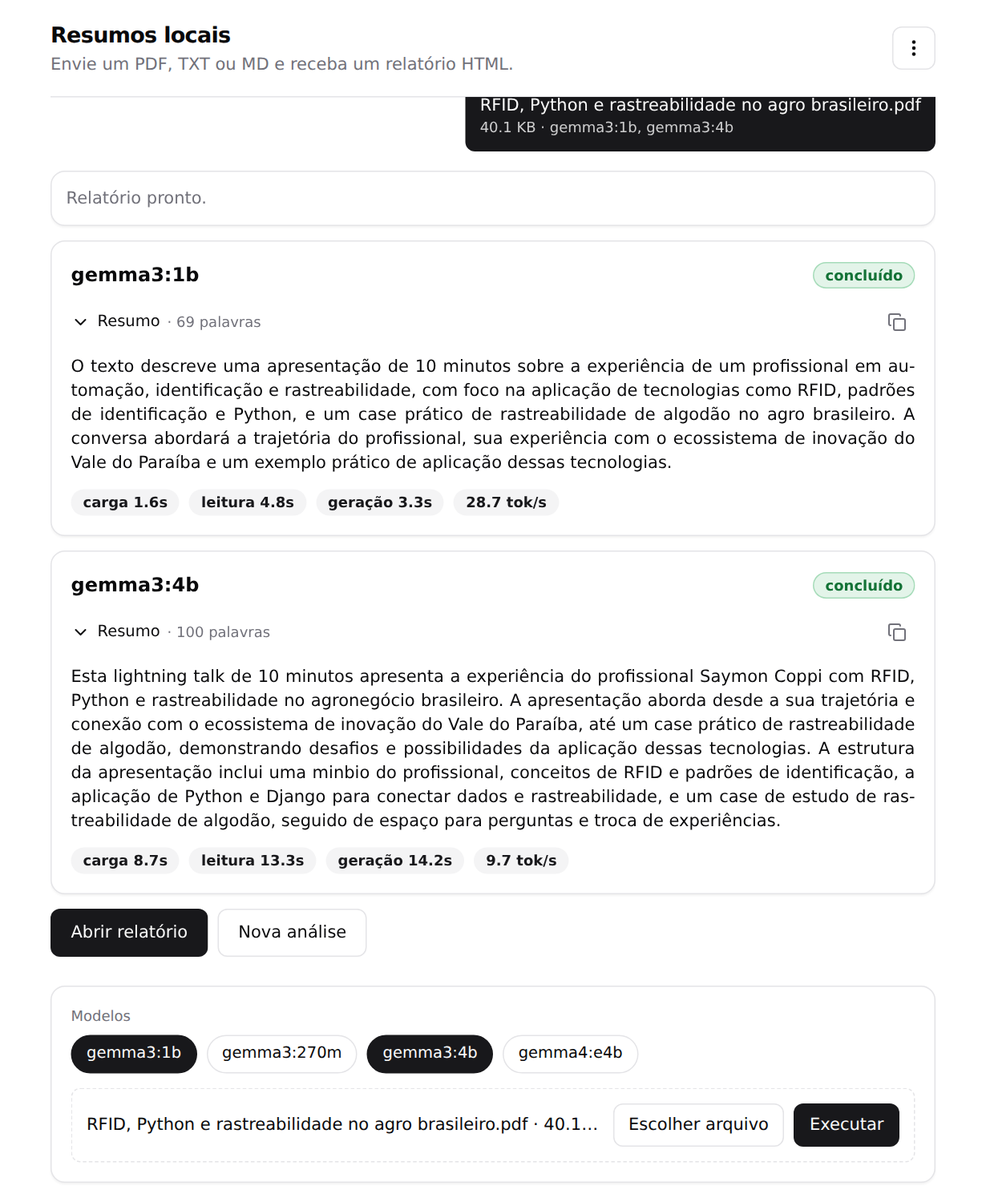
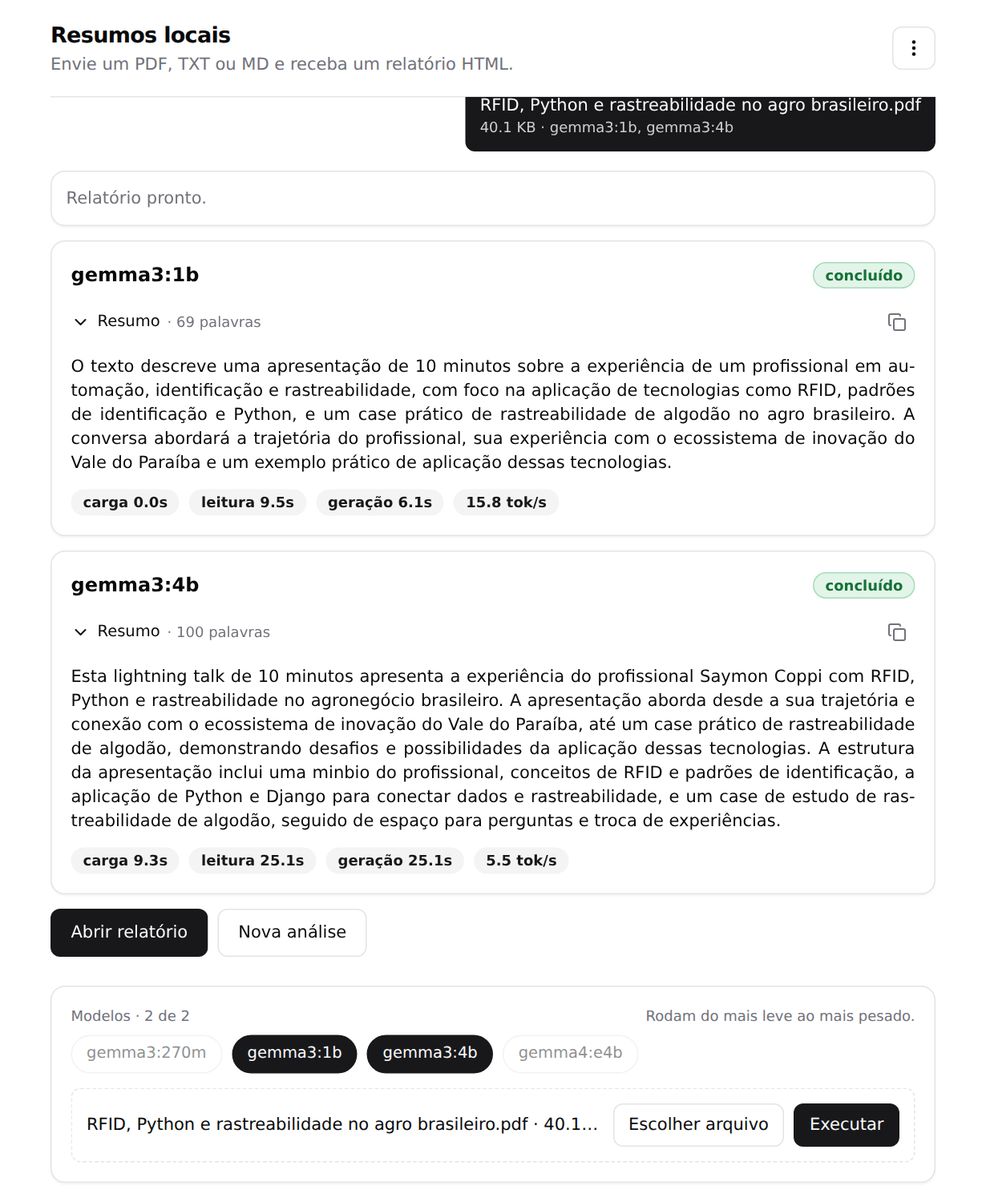
Limite e ordem de modelos, instalação com os 4 modelos e ícone de carregamento
Chat
- Máximo de modelos por execução vem do compose (MAX_MODELS, mesmo valor de
  OLLAMA_MAX_LOADED_MODELS): os pills bloqueiam o excesso, com contador e
  aviso, e o servidor recusa requisições acima do limite (HTTP 400)
- Configurações ganha o campo bloqueado "Máximo de modelos por execução"
- Os modelos rodam sempre do mais leve ao mais pesado (tamanho em disco),
  qualquer que seja a ordem marcada; pills, cards e relatório seguem essa ordem
- Apresentações Parágrafos e Texto Completo mostram um círculo girando no
  centro do card enquanto o modelo trabalha
- /api/config substitui /api/prompt; /api/models devolve também os tamanhos

Compose
- Máximo de modelos definido uma única vez (x-max-models) e entregue ao
  Ollama e ao chat; padrão 2, ajustável por OLLAMA_MAX_LOADED_MODELS ou .env
- pull-model baixa os 4 modelos do chat (lista configurável em MODELS) e
  para na primeira falha; .env entra no .gitignore

Documentação
- Capturas de tela refeitas e nova (limite-modelos.png)
- README e guia do Ollama atualizados (limite, ordem, instalação, ícone)

diff --git a/app/static/index.html b/app/static/index.html
@@ -8,11 +8,15 @@
           font-size: 13px; font-weight: 500; border: 1px solid hsl(var(--input)); cursor: pointer;
           background: transparent; color: hsl(var(--foreground)); transition: background .15s; }
   .chip:hover { background: hsl(var(--accent)); }
+  .chip[aria-disabled="true"] { opacity: .45; cursor: not-allowed; }   /* limite de modelos atingido */
+  .chip[aria-disabled="true"]:hover { background: transparent; }
   .chip[aria-pressed="true"] { background: hsl(var(--primary)); color: hsl(var(--primary-foreground));
           border-color: hsl(var(--primary)); }
   .field { width: 100%; resize: vertical; min-height: 9rem; padding: 10px 12px; border-radius: var(--radius);
            border: 1px solid hsl(var(--input)); background: transparent; color: hsl(var(--foreground));
            font: inherit; font-size: 14px; line-height: 1.55; }
+  input.field { min-height: 0; height: 38px; resize: none; width: 6rem; }
+  .field:disabled { background: hsl(var(--muted)); color: hsl(var(--muted-foreground)); cursor: not-allowed; opacity: 1; }
   select.field { min-height: 0; height: 38px; padding: 0 10px; resize: none; width: min(100%, 18rem); background: hsl(var(--background)); }
   .field::placeholder { color: hsl(var(--muted-foreground)); opacity: .85; }
   .field:focus { outline: 2px solid hsl(var(--ring)); outline-offset: 1px; }
@@ -46,6 +50,11 @@
   .seg > div { height: 100%; width: 0; border-radius: 9999px; background: hsl(var(--primary)); transition: width .25s ease; }
   .seg.done > div { width: 100%; }
   .seg.indet > div { width: 40%; animation: slide 1.2s ease-in-out infinite; }
+  /* ícone de carregamento (círculo girando) no centro do card, nas apresentações que seguram o texto */
+  .wait { display: flex; justify-content: center; padding: 14px 0; color: hsl(var(--muted-foreground)); }
+  .spin { animation: spin .9s linear infinite; }
+  @keyframes spin { to { transform: rotate(360deg); } }
+  @media (prefers-reduced-motion: reduce) { .spin { animation-duration: 2.8s; } }
   @keyframes slide { 0% { margin-left: -40%; } 100% { margin-left: 100%; } }
   @media (prefers-reduced-motion: reduce) { .seg.indet > div { animation: none; width: 100%; opacity: .5; } }
 
@@ -124,7 +133,10 @@
   <footer class="pb-4 pt-2">
     <form id="form" class="card space-y-3 p-4">
       <div>
-        <div class="mb-2 text-xs font-medium text-muted-foreground">Modelos</div>
+        <div class="mb-2 flex flex-wrap items-baseline justify-between gap-x-4 gap-y-1">
+          <div class="text-xs font-medium text-muted-foreground">Modelos <span id="chips-count"></span></div>
+          <div id="chips-note" class="text-xs text-muted-foreground" aria-live="polite"></div>
+        </div>
         <div id="chips" class="flex flex-wrap gap-2"></div>
       </div>
       <div id="drop" class="drop flex items-center justify-between gap-3 rounded-lg border border-dashed border-input p-3">
@@ -186,7 +198,18 @@
       <p id="present-help" class="text-xs text-muted-foreground" aria-live="polite"></p>
     </section>
 
-    <p class="text-xs text-muted-foreground">Nada aqui é salvo: ao recarregar a página, as configurações voltam ao padrão.</p>
+    <section class="space-y-3" aria-labelledby="max-heading">
+      <h3 id="max-heading" class="text-sm font-semibold">Máximo de modelos por execução</h3>
+      <p class="text-sm text-muted-foreground">
+        Quantos modelos podem ficar marcados ao mesmo tempo. O valor vem do <code>docker-compose.yml</code>
+        (<code>OLLAMA_MAX_LOADED_MODELS</code>, o número de modelos que o Ollama mantém na memória) e <strong>não pode ser alterado aqui</strong>.
+        Os modelos marcados rodam sempre do <strong>mais leve para o mais pesado</strong> (pelo tamanho em disco).
+      </p>
+      <label for="max-models" class="sr-only">Máximo de modelos por execução</label>
+      <input id="max-models" class="field" value="…" readonly disabled aria-readonly="true">
+    </section>
+
+    <p class="text-xs text-muted-foreground">O prompt e a apresentação não são salvos: ao recarregar a página, voltam ao padrão.</p>
   </div>
 </dialog>
 
@@ -200,6 +223,9 @@ const OK_EXT = ['pdf', 'txt', 'md', 'markdown'];
 const DROP_HINT = 'Arraste um arquivo (pdf, txt, md)';
 let file = null, busy = false;
 const selected = new Set();
+let maxModels = 2;            // vem do servidor (compose); 2 só até a configuração chegar
+const sizes = {};             // tamanho em disco de cada modelo instalado: define a ordem de execução
+const byWeight = list => [...list].sort((a, b) => (sizes[a] ?? Infinity) - (sizes[b] ?? Infinity) || a.localeCompare(b));   // do mais leve ao mais pesado
 
 function scroll() { const c = $('#chat'); c.scrollTop = c.scrollHeight; }
 function fmtSize(b) { return b > 1048576 ? (b / 1048576).toFixed(1) + ' MB' : (b / 1024).toFixed(1) + ' KB'; }
@@ -295,34 +321,61 @@ present.addEventListener('change', () => { presentHelp(); refreshPresentation();
 $('#prompt-clear').onclick = () => { promptEl.value = ''; promptStatus(); promptEl.focus(); };
 $('#settings-close').onclick = () => settingsModal.close();
 settingsModal.addEventListener('click', e => { if (e.target === settingsModal) settingsModal.close(); });
-fetch('/api/prompt').then(r => r.json()).then(d => { promptEl.placeholder = d.default; promptEl.maxLength = d.max; }).catch(() => {});
+fetch('/api/config').then(r => r.json()).then(d => {
+  promptEl.placeholder = d.default_prompt; promptEl.maxLength = d.max_prompt;
+  maxModels = d.max_models; $('#max-models').value = d.max_models; limitChips();
+}).catch(() => {});
 
 // ---- modelos ------------------------------------------------------------------
+const NOTE_PADRAO = 'Rodam do mais leve ao mais pesado.';
+let noteTimer = null;
+function chipOf(name) { return [...$('#chips').children].find(c => c.dataset && c.dataset.model === name); }
+function limitChips() {   // contador e bloqueio visual dos pills que passariam do limite
+  $('#chips-count').textContent = `· ${selected.size} de ${maxModels}`;
+  const cheio = selected.size >= maxModels;
+  [...$('#chips').children].forEach(c => {
+    if (!c.dataset || !c.dataset.model) return;
+    const bloqueado = cheio && !selected.has(c.dataset.model);
+    bloqueado ? c.setAttribute('aria-disabled', 'true') : c.removeAttribute('aria-disabled');
+    c.title = bloqueado ? `Limite de ${maxModels} ${maxModels === 1 ? 'modelo' : 'modelos'}: desmarque um para escolher este` : '';
+  });
+}
+function note(msg, aviso) {
+  const n = $('#chips-note'); clearTimeout(noteTimer);
+  n.textContent = msg; n.classList.toggle('text-destructive', !!aviso); n.classList.toggle('font-medium', !!aviso);
+  if (aviso) noteTimer = setTimeout(() => note(NOTE_PADRAO, false), 4000);
+}
 function addChip(name, on) {
-  if ([...$('#chips').children].some(c => c.dataset.model === name)) { if (on) toggle(name, true); return; }
+  if (chipOf(name)) { if (on) toggle(name, true); return; }
   const b = el('button', 'chip', name); b.type = 'button'; b.dataset.model = name;
   b.setAttribute('aria-pressed', 'false'); b.onclick = () => toggle(name);
   $('#chips').appendChild(b); if (on) toggle(name, true);
 }
 function toggle(name, force) {
-  const b = [...$('#chips').children].find(c => c.dataset.model === name);
+  const b = chipOf(name);
   const on = force ?? !selected.has(name);
+  if (on && !selected.has(name) && selected.size >= maxModels) {   // passaria do máximo definido no compose
+    note(`Máximo de ${maxModels} ${maxModels === 1 ? 'modelo' : 'modelos'} por execução. Desmarque um para escolher outro.`, true); return;
+  }
   on ? selected.add(name) : selected.delete(name);
-  b.setAttribute('aria-pressed', on); refreshButtons();
+  b.setAttribute('aria-pressed', on); limitChips(); refreshButtons();
 }
 function noModels() {   // sem campo para digitar: explica como instalar
   $('#chips').replaceChildren(el('span', 'text-sm text-muted-foreground',
     'Nenhum modelo instalado (ou o Ollama está offline). Para baixar um: docker exec ollama ollama pull gemma3:4b'));
 }
 async function loadModels() {
+  note(NOTE_PADRAO, false); limitChips();
   try {
-    const { models } = await (await fetch('/api/models')).json();
-    models.forEach(m => addChip(m, false));
-    if (!models.length) noModels();
-    const pref = models.find(m => m === 'gemma3:4b') || models[0];
+    const d = await (await fetch('/api/models')).json();
+    Object.assign(sizes, d.sizes || {});
+    d.models.forEach(m => addChip(m, false));   // o servidor já devolve do mais leve ao mais pesado
+    if (!d.models.length) noModels();
+    const pref = d.models.find(m => m === 'gemma3:4b') || d.models[0];
     if (pref) toggle(pref, true);
   } catch { noModels(); }
 }
+
 // ---- arquivo ------------------------------------------------------------------
 function setFile(f) {
   if (!f) return;
@@ -348,7 +401,7 @@ function userMsg() {
   const wrap = el('div', 'flex justify-end');
   const b = el('div', 'max-w-[85%] rounded-lg bg-primary p-3 text-sm text-primary-foreground');
   b.appendChild(el('div', 'font-medium', file.name));
-  b.appendChild(el('div', 'text-xs opacity-80', `${fmtSize(file.size)} · ${[...selected].join(', ')}` + (promptEl.value.trim() ? ' · prompt personalizado' : '')));
+  b.appendChild(el('div', 'text-xs opacity-80', `${fmtSize(file.size)} · ${byWeight(selected).join(', ')}` + (promptEl.value.trim() ? ' · prompt personalizado' : '')));
   wrap.appendChild(b); $('#chat').appendChild(wrap); scroll();
 }
 
@@ -410,6 +463,7 @@ const ICONS = {
   chevron: svg('<path d="m6 9 6 6 6-6"/>'),
   copy: svg('<rect width="14" height="14" x="8" y="8" rx="2" ry="2"/><path d="M4 16c-1.1 0-2-.9-2-2V4c0-1.1.9-2 2-2h10c1.1 0 2 .9 2 2"/>'),
   check: svg('<path d="M20 6 9 17l-5-5"/>'),
+  spinner: '<svg class="spin" width="30" height="30" viewBox="0 0 24 24" fill="none" stroke="currentColor" stroke-width="2" stroke-linecap="round" stroke-linejoin="round" aria-hidden="true"><path d="M21 12a9 9 0 1 1-6.219-8.56"/></svg>',
 };
 async function copyText(text) {
   try { await navigator.clipboard.writeText(text); return true; }
@@ -424,7 +478,7 @@ let foldId = 0;
 $('#form').addEventListener('submit', async e => {
   e.preventDefault();
   if (busy || !file || !selected.size) return;
-  const models = [...selected];
+  let models = byWeight(selected);   // mais leve primeiro; o servidor confirma a ordem no evento "info"
   busy = true; refreshButtons(); userMsg();
   const box = el('div', 'space-y-3'); $('#chat').appendChild(box);
   const status = el('div', 'card p-3 text-sm text-muted-foreground', 'Enviando arquivo…'); box.appendChild(status);
@@ -455,6 +509,8 @@ $('#form').addEventListener('submit', async e => {
     const inner = el('div'); inner.appendChild(text); fold.appendChild(inner);
     toggle.setAttribute('aria-controls', fold.id);
 
+    const wait = el('div', 'wait'); wait.hidden = true; wait.setAttribute('role', 'status');
+    wait.innerHTML = ICONS.spinner + '<span class="sr-only">Gerando o resultado…</span>';
     const pills = el('div', 'flex flex-wrap gap-2');
     const foot = el('div', 'space-y-2');
     const line = el('div', 'flex items-center justify-between gap-2 text-sm text-muted-foreground');
@@ -463,9 +519,9 @@ $('#form').addEventListener('submit', async e => {
     const steps = el('div', 'steps'); steps.setAttribute('role', 'progressbar'); steps.setAttribute('aria-label', 'Progresso de ' + model);
     const segs = [0, 1, 2].map(() => { const s = el('div', 'seg'), f = el('div'); s.appendChild(f); steps.appendChild(s); return { s, f }; });
     foot.append(line, steps);
-    card.append(head, sumHead, fold, pills, foot); box.appendChild(card);
+    card.append(head, sumHead, fold, wait, pills, foot); box.appendChild(card);
 
-    const p = panels[model] = { card, badge, text, sumHead, fold, meta, copy, pills, foot, label, elapsed, steps, segs,
+    const p = panels[model] = { card, badge, text, sumHead, fold, meta, copy, wait, pills, foot, label, elapsed, steps, segs,
                                 raw: '', tokens: 0, pct: 0, stage: null, stageStart: 0, timer: null, renderT: null,
                                 finished: false, pill: {} };
     toggle.onclick = () => {   // recolher/expandir o resumo
@@ -494,13 +550,18 @@ $('#form').addEventListener('submit', async e => {
     for (let i = 0; i < 3; i++)
       segSet(p, i, i < s.seg ? 'done' : i > s.seg ? 'idle' : (stage === 'generate' || stage === 'pull') ? 'det' : 'indet', 0);
     clearInterval(p.timer); tick(p); p.timer = setInterval(() => tick(p), 250);
+    updateWait(p);
   }
   function addPill(p, key, label, tipText) {
     if (p.pill[key]) { p.pill[key].b.textContent = label; return p.pill[key]; }
     const x = makePill(label, tipText || TIPS[key]); p.pills.appendChild(x.wrap); return p.pill[key] = x;
   }
+  // Nas apresentações que seguram o texto (parágrafos e texto completo) o card parece parado: o círculo
+  // girando mostra que o modelo continua trabalhando, da carga até concluir.
+  function updateWait(p) { p.wait.hidden = !(p.stage && !p.finished && (present.value === 'paragrafos' || present.value === 'completo')); }
   function renderSummary(p) {   // markdown do modelo; sem as bibliotecas, mostra o texto puro
     p.renderT = null;
+    updateWait(p);
     const t = visibleText(p.raw, present.value, p.finished);
     p.sumHead.hidden = p.fold.hidden = !t.trim();   // sem nada para mostrar ainda: só o andamento do rodapé
     if (!t.trim()) return;
@@ -524,6 +585,7 @@ $('#form').addEventListener('submit', async e => {
       expected = Math.min(600, Math.max(80, Math.round(ev.est_tokens * 0.35)));
       status.textContent = `Arquivo lido: ${ev.ftype} · ${ev.chars.toLocaleString('pt-BR')} caracteres · contexto ${ev.ctx}`;
       ev.warnings.forEach(w => box.appendChild(el('div', 'alert', w)));
+      if (ev.models) models = ev.models;   // ordem real de execução, decidida pelo servidor
       models.forEach(panel);
     } else if (ev.type === 'queue') {
       status.textContent = 'Outro job está rodando; aguardando a vez…';

diff --git a/app/server.py b/app/server.py
@@ -35,6 +35,9 @@ ASSET_RE = re.compile(r"^[A-Za-z0-9._-]+\.png$")
 DEFAULT_PROMPT = ("Resuma o texto recebido, sempre em português. Responda somente com o "
                   "resumo, sem saudações, perguntas ou comentários finais.")
 MAX_PROMPT = 4000             # caracteres
+# Quantos modelos podem ser marcados por execução. Vem do docker-compose.yml (MAX_MODELS), o mesmo valor de
+# OLLAMA_MAX_LOADED_MODELS: é quantos modelos o Ollama mantém na memória.
+MAX_MODELS = max(1, int(os.environ.get("MAX_MODELS") or 2))
 MAX_UPLOAD = 20 * 1024 * 1024
 NUM_PREDICT = 1024            # teto de tokens gerados (também reservado no contexto)
 KEEP_ALIVE = "10m"            # quanto tempo o modelo fica na memória depois do último uso
@@ -205,12 +208,26 @@ def ollama_stream(path, body, timeout=900):
                 yield obj
 
 
-def installed_models():
+def installed_sizes():
+    """{modelo: tamanho em disco} dos modelos instalados; None se o Ollama não responder."""
     try:
         with urllib.request.urlopen(OLLAMA + "/api/tags", timeout=10) as r:
-            return sorted(m["name"] for m in json.load(r)["models"])
+            return {m["name"]: m.get("size", 0) for m in json.load(r)["models"]}
     except Exception:
         return None
+
+
+def installed_models():
+    """Nomes dos modelos instalados, do mais leve ao mais pesado."""
+    sizes = installed_sizes()
+    return None if sizes is None else sorted(sizes, key=lambda n: (sizes[n], n))
+
+
+def order_models(models):
+    """Ordem de execução: sempre do mais leve ao mais pesado (tamanho em disco). Um modelo que ainda
+    não está instalado (será baixado) tem peso desconhecido e vai para o fim."""
+    sizes = installed_sizes() or {}
+    return sorted(models, key=lambda m: (sizes.get(m, sizes.get(m + ":latest", float("inf"))), m))
 
 
 def ollama_json(path, body=None, timeout=5):
@@ -235,7 +252,7 @@ def models_info():
     except Exception:
         loaded = {}
     models = []
-    for m in sorted(tags, key=lambda x: x["name"]):
+    for m in sorted(tags, key=lambda x: (x.get("size", 0), x["name"])):
         ctx, caps = None, []
         try:   # contexto máximo e capacidades só vêm de /api/show
             show = ollama_json("/api/show", {"model": m["name"]})
@@ -657,9 +674,10 @@ class Handler(BaseHTTPRequestHandler):
         if path == "/fragments/ollama-status":
             return self._send(200, render_status_fragment(), "text/html; charset=utf-8")
         if path == "/api/models":
-            return self._json(200, {"models": installed_models() or []})
-        if path == "/api/prompt":   # texto padrão, usado como placeholder do menu "Prompt"
-            return self._json(200, {"default": DEFAULT_PROMPT, "max": MAX_PROMPT})
+            sizes = installed_sizes() or {}
+            return self._json(200, {"models": sorted(sizes, key=lambda n: (sizes[n], n)), "sizes": sizes})
+        if path == "/api/config":   # valores que a tela de Configurações mostra (prompt padrão, limites)
+            return self._json(200, {"default_prompt": DEFAULT_PROMPT, "max_prompt": MAX_PROMPT, "max_models": MAX_MODELS})
         self._json(404, {"message": "não encontrado"})
 
     def do_POST(self):
@@ -676,6 +694,7 @@ class Handler(BaseHTTPRequestHandler):
             ftype, type_warn = detect_type(data, filename)
             text = extract_text(data, ftype)
             ctx, ctx_warn = plan_context(text, prompt)
+            models = order_models(models)   # sempre do mais leve ao mais pesado, qualquer que seja a ordem pedida
         except UserError as err:
             return self._json(400, {"message": str(err)})
         info = {"filename": filename, "ftype": ftype, "size_bytes": len(data),
@@ -687,8 +706,12 @@ class Handler(BaseHTTPRequestHandler):
         models = [m.strip() for m in (q.get("models", [""])[0]).split(",") if m.strip()]
         if not models:
             raise UserError("Selecione ao menos um modelo.")
-        if len(models) > 6 or any(not MODEL_RE.match(m) for m in models):
+        if any(not MODEL_RE.match(m) for m in models):
             raise UserError("Lista de modelos inválida.")
+        models = list(dict.fromkeys(models))
+        if len(models) > MAX_MODELS:
+            raise UserError(f"Selecione no máximo {MAX_MODELS} {'modelo' if MAX_MODELS == 1 else 'modelos'} por execução "
+                            "(limite definido no docker-compose.yml).")
         filename = os.path.basename(q.get("filename", ["arquivo"])[0])[:200] or "arquivo"
         try:
             length = int(self.headers.get("Content-Length", ""))
@@ -702,7 +725,7 @@ class Handler(BaseHTTPRequestHandler):
         prompt = (q.get("prompt", [""])[0]).strip()
         if len(prompt) > MAX_PROMPT:
             raise UserError(f"O prompt tem mais de {MAX_PROMPT} caracteres.")
-        return list(dict.fromkeys(models)), filename, prompt or DEFAULT_PROMPT, self.rfile.read(length)
+        return models, filename, prompt or DEFAULT_PROMPT, self.rfile.read(length)
 
     def _stream_job(self, models, text, ctx, info, prompt):
         self.send_response(200)
@@ -715,7 +738,7 @@ class Handler(BaseHTTPRequestHandler):
             self.wfile.flush()
 
         try:
-            emit({"type": "info", **info, "est_tokens": len(text) // 3})
+            emit({"type": "info", **info, "models": models, "est_tokens": len(text) // 3})
             if not job_lock.acquire(blocking=False):
                 emit({"type": "queue"})
                 job_lock.acquire()

diff --git a/references/ollama-gemma4-pdf.md b/references/ollama-gemma4-pdf.md
@@ -148,9 +148,9 @@ O `docker-compose.yml` do projeto (na raiz) vai além dessa versão mínima e te
 
 | Serviço | Função |
 |---|---|
-| `ollama` | O servidor do Ollama, com *healthcheck* (só fica "saudável" quando responde), um modelo por vez na memória (`OLLAMA_MAX_LOADED_MODELS=1`) e um bloco de GPU NVIDIA comentado, pronto para descomentar. |
-| `pull-model` | Baixa o `gemma4:e4b` uma vez e encerra. Se o modelo já existe, termina na hora. |
-| `chat` | O chat web, em `http://localhost:8000`. Fala com o Ollama pela rede interna do Compose. |
+| `ollama` | O servidor do Ollama, com *healthcheck* (só fica "saudável" quando responde), no máximo dois modelos na memória (`OLLAMA_MAX_LOADED_MODELS=2`) e um bloco de GPU NVIDIA comentado, pronto para descomentar. |
+| `pull-model` | Baixa os quatro modelos do chat (`gemma3:270m`, `gemma3:1b`, `gemma3:4b` e `gemma4:e4b`) e encerra; o que já existe é só verificado. A lista é configurável pela variável `MODELS`. |
+| `chat` | O chat web, em `http://localhost:8000`. Fala com o Ollama pela rede interna do Compose e recebe do compose o limite de modelos por execução (`MAX_MODELS`, o mesmo valor do Ollama). |
 
 > No WSL2, a GPU só fica disponível no container se o Docker estiver configurado com suporte a GPU (Docker Desktop com integração WSL ou NVIDIA Container Toolkit).
 
@@ -166,13 +166,17 @@ Na pasta do projeto:
 docker compose up -d --build
 ```
 
-Isso sobe o Ollama, baixa o `gemma4:e4b` (cerca de 5,5 GB na primeira vez) e sobe o chat. Para subir só o chat e o Ollama, sem baixar nada, use `docker compose up -d --build chat`. Depois abra **http://localhost:8000**. Para parar, `docker compose down`; os modelos e o histórico continuam guardados.
+Isso sobe o Ollama, baixa os quatro modelos do chat (cerca de 10 GB na primeira vez, então demora; o chat lista cada modelo conforme fica pronto) e sobe o chat. Para outros modelos, use `MODELS="gemma3:1b gemma3:4b" docker compose up -d`. Para subir só o chat e o Ollama, sem baixar nada, use `docker compose up -d --build chat`. Depois abra **http://localhost:8000**. Para parar, `docker compose down`; os modelos e o histórico continuam guardados.
 
 ### Gerar um resumo ou uma comparação
 
 ![Tela inicial do chat](../assets/home.png)
 
-Na tela inicial, escolha os **modelos** (botões de baixo), anexe o arquivo (PDF, TXT ou MD, até 20 MB) e clique em **Executar**. Com um modelo você recebe um resumo; com dois ou mais, uma comparação. Para usar um modelo que ainda não está instalado, baixe-o antes (`docker exec ollama ollama pull gemma3:12b`) e recarregue a página.
+Na tela inicial, escolha os **modelos** (botões de baixo, listados do mais leve ao mais pesado; no máximo dois por execução), anexe o arquivo (PDF, TXT ou MD, até 20 MB) e clique em **Executar**. Com um modelo você recebe um resumo; com dois, uma comparação. Os modelos rodam sempre do **mais leve para o mais pesado**, qualquer que seja a ordem em que você os marcou.
+
+![Limite de dois modelos atingido](../assets/limite-modelos.png)
+
+O limite de **dois modelos** vem do `docker-compose.yml` (o mesmo `OLLAMA_MAX_LOADED_MODELS` do Ollama). O contador mostra "2 de 2", os demais botões ficam esmaecidos e tentar marcar um terceiro exibe um aviso. Para usar um modelo que ainda não está instalado, baixe-o antes (`docker exec ollama ollama pull gemma3:12b`) e recarregue a página.
 
 ![Comparação em andamento](../assets/comparisson-first-model.png)
 
@@ -206,7 +210,7 @@ Clicar no status **online** abre os **modelos instalados**: parâmetros, quantiz
 
 ![Janela de Configurações](../assets/settings.png)
 
-Em **Configurações** você edita o **prompt**, a instrução enviada ao modelo antes do texto do arquivo (em branco, vale o padrão, mostrado em cinza). A mudança vale na próxima execução e não é salva. Há também a **apresentação da resposta**, que define como o resumo entra no card enquanto é gerado: por tokens, palavras, parágrafos ou só o texto completo no fim.
+Em **Configurações** você edita o **prompt**, a instrução enviada ao modelo antes do texto do arquivo (em branco, vale o padrão, mostrado em cinza). A mudança vale na próxima execução e não é salva. Há também a **apresentação da resposta**, que define como o resumo entra no card enquanto é gerado: por tokens, palavras, parágrafos ou só o texto completo no fim. Em parágrafos e texto completo, um círculo girando no centro do card mostra que o modelo continua trabalhando enquanto o texto fica retido. O terceiro item, **máximo de modelos por execução**, é um campo bloqueado: mostra o limite que vem do `docker-compose.yml` (hoje 2) e não pode ser alterado na tela.
 
 ![Ajuda dentro do chat](../assets/help.png)
 
@@ -242,7 +246,7 @@ Sem GPU, a **carga** e a **leitura** do texto costumam pesar mais que a geraçã
 
 **Por que a leitura é mais lenta no modelo maior, se o texto já foi extraído?** Porque "ler" não é copiar o texto: o modelo passa cada token por todas as suas camadas para montar a sua memória de atenção. É cálculo, e cresce com o tamanho do modelo. Com o mesmo texto (~575 tokens) e o modelo já carregado, o `gemma3:1b` leu a 71 tok/s e o `gemma4:e4b` a 15 tok/s. O resultado dessa leitura é próprio de cada modelo, então não é reaproveitado pelo seguinte. Só repetir exatamente o mesmo prompt no mesmo modelo, ainda carregado, torna a leitura quase instantânea (menos de meio segundo).
 
-**Memória:** manter vários modelos carregados ao mesmo tempo piora a leitura. Com os três modelos abertos (2,3 GB de RAM livre), o `gemma4:e4b` leu a 26 tok/s; com só ele (6,5 GB livres), a 42 tok/s. Por isso o `docker-compose.yml` usa `OLLAMA_MAX_LOADED_MODELS=1`: o Ollama descarrega o modelo anterior ao carregar o próximo.
+**Memória:** manter vários modelos carregados ao mesmo tempo piora a leitura. Com **três** modelos abertos (2,3 GB de RAM livre), o `gemma4:e4b` leu a 26 tok/s; com só ele (6,5 GB livres), a 42 tok/s. Por isso o `docker-compose.yml` limita o Ollama a **dois** modelos (`OLLAMA_MAX_LOADED_MODELS=2`) e o chat, ao mesmo valor: só dá para marcar dois modelos por execução, e repetir uma comparação entre eles não recarrega nenhum. O valor é definido uma única vez no compose e entregue ao Ollama e ao chat. No teste do par mais pesado (`gemma4:e4b` + `gemma3:4b`), a RAM livre ficou em 4,4 GB e a leitura do `e4b` não mudou (21 a 23 tok/s com o `4b` ao lado, contra 21 a 22 sozinho), mas a margem é menor e o swap sobe um pouco. Em máquinas com pouca RAM, use `1`.
 
 Medições feitas num notebook Intel i7-1185G7 (4 núcleos, 8 threads), sem GPU, com 20 GB de RAM no WSL2. Os seus números vão variar, e o mesmo teste oscilou até cerca de 15% entre rodadas:
 
@@ -250,7 +254,7 @@ Medições feitas num notebook Intel i7-1185G7 (4 núcleos, 8 threads), sem GPU,
 |---|---|
 | Padrão do Ollama (4 threads, uma por núcleo físico) | **O melhor.** Geração de 6 a 7 tok/s no `gemma4:e4b`. |
 | Usar as 8 threads | **Pior:** a geração caiu de ~7 para ~2 tok/s. Não aumente o número de threads. |
-| Um modelo por vez na memória (`OLLAMA_MAX_LOADED_MODELS=1`) | **Melhor:** libera RAM e cache de disco. Com os três modelos carregados, a leitura do `gemma4:e4b` foi 26 tok/s; com só ele, 42 tok/s. Já é o padrão do `docker-compose.yml`. |
+| No máximo dois modelos na memória (`OLLAMA_MAX_LOADED_MODELS=2`) | **Melhor que três ou mais:** com três modelos carregados, a leitura do `gemma4:e4b` foi 26 tok/s; com só ele, 42 tok/s. Com o par mais pesado (`e4b` + `4b`) a leitura não mudou, mas sobram só ~4,4 GB de RAM. Já é o padrão do `docker-compose.yml`; use `1` se faltar memória. |
 | `OLLAMA_FLASH_ATTENTION=1` | Pior: a leitura caiu de ~31 para ~25 tok/s no `gemma3:4b`. |
 | GPU integrada Intel | Inviável no WSL2 com o Ollama em container: o pacote Mesa do Ubuntu não traz o driver `dzn` e não existe `/dev/dri`. |
 
